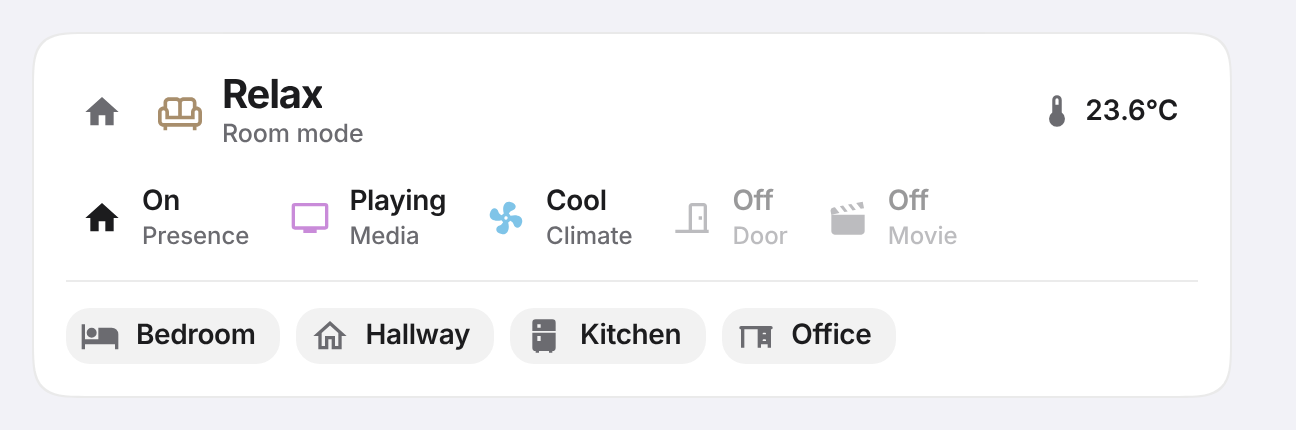
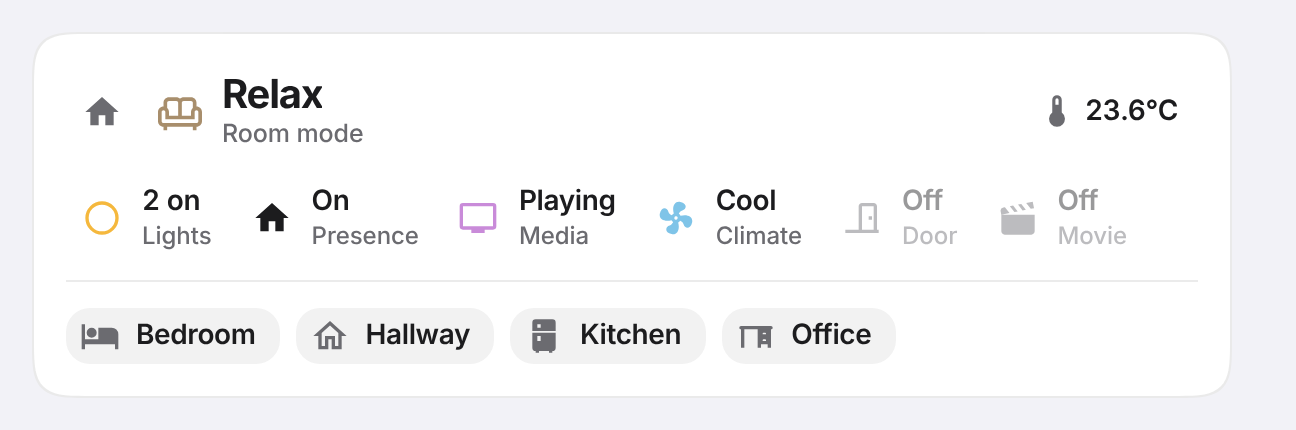
Room header: how many lights are on, first in the row (0.20.2)
A Lights chip leads the room header's row with the number of lights on (Off, dimmed, when none); a tap lists them with all on and all off. lights: false hides it; with auto_discover: false it shows only when asked for.

Changed region(s): [[0.0617, 0.4233, 0.7407, 0.5744], [0.7716, 0.4233, 0.8642, 0.5744]]

diff --git a/dist/savvy-cards.js b/dist/savvy-cards.js
@@ -17926,9 +17926,9 @@ registerCard("savvy-room-activity-card", SavvyRoomActivityCard, "Room activity",
 // ===== cards/room-header.js =====
 (() => {
 // savvy-room-header-card: the header at the top of a room's own page. The room's control (a mode
-// select, say: tap to change it) and temperature; a row of what the room has, pinned entities first, then
-// everything the area has, on or off (dimmed when idle); your own chips; and a row to
-// jump to every other room.
+// select, say: tap to change it) and temperature; a row of what the room has: how many lights are on,
+// then everything the area has, on or off (dimmed when idle), what is active first; your own chips;
+// and a row to jump to every other room.
 //
 //   type: custom:savvy-room-header-card
 //   area: living_room
@@ -18037,9 +18037,27 @@ class SavvyRoomHeaderCard extends SavvyCard {
     this._wake();
   }
 
+  // How many of the room's lights are on, leading the row: a tap lists them, with all on / off.
+  _lightsItem() {
+    const h = this._hass, c = this._config;
+    // its own option; with discovery off (only the pinned badges) it shows only when asked for
+    if (c.lights === false || (c.auto_discover === false && c.lights !== true)) return null;
+    const ids = areaLights(h, c.area).filter((id) => !asItems(c.exclude).some((i) => i.entity === id));
+    if (!ids.length) return null;
+    const on = ids.filter((id) => h.states[id]?.state === "on").length;
+    const value = on ? `${on} on` : "Off";
+    return {
+      key: "lights", icon: on ? "mdi:lightbulb-on" : "mdi:lightbulb-outline", value, caption: "Lights", aria: `Lights, ${value}`,
+      color: on ? LIGHT_COLOR : "var(--secondary-text-color)", dim: !on,
+      config: { tap_action: { action: "list" }, hold_action: { action: "list" } }, defaults: { tap: { action: "list" }, hold: { action: "list" } },
+      list: (from) => this._showList("Lights", ids, LIGHT_COLOR, from, null, { bulk: "auto" }),
+    };
+  }
+
   // Everything the room has, on or off: active ones in their colour, idle ones dimmed.
   _sensors() {
     const h = this._hass, c = this._config;
+    const lights = this._lightsItem();
     const items = roomBadges(h, c.area, c, { idle: true }).map((b) => {
       const look = badgeLook(b), st = h.states[b.entity];
       const caption = b.cfg.name || b.kind?.name || shortName(h, b.entity, c.area);
@@ -18053,7 +18071,7 @@ class SavvyRoomHeaderCard extends SavvyCard {
         list: (from) => this._showList(caption, b.ids, look.color, from, null, { bulk: "auto" }),
       };
     });
-    this._chipRow(this._el.sensors, items, { iconOnly: !!c.icons_only });
+    this._chipRow(this._el.sensors, lights ? [lights, ...items] : items, { iconOnly: !!c.icons_only });
   }
 
   _customChips() {
@@ -18101,7 +18119,8 @@ const EDITOR = defineEditor("savvy-room-header-card", (hass, c) => [
   S.nav("home_path", "Home button", "Empty hides the button."),
   { name: "temperature", label: "Temperature", helper: "Found from the area. Pick another to override.", selector: { entity: { domain: ["sensor", "climate"] } } },
   ...badgeSchema({ pinnedHelp: "Always shown first, in this order: a lights helper, presence, a door. The rest of the room follows." }),
-  S.bool("icons_only", "Icons only", "Just the coloured icons, no names or states.", false),
+  S.grid(S.bool("lights", "Lights count", "How many of the room's lights are on, first in the row; a tap lists them.", true),
+    S.bool("icons_only", "Icons only", "Just the coloured icons, no names or states.", false)),
   S.chips("chips", "Custom chips", "Your own chips, in a row under the room's."),
   { name: "room_path", label: "Room pages", helper: "E.g. /lovelace/{slug} ({area}: the area id, {slug}: with dashes). Empty hides the row.", selector: { text: {} } },
   { name: "room_order", label: "Room order", type: "list", helper: "Rooms listed first, in this order; the rest follow by name.",

diff --git a/src/cards/room-header.js b/src/cards/room-header.js
@@ -1,7 +1,7 @@
 // savvy-room-header-card: the header at the top of a room's own page. The room's control (a mode
-// select, say: tap to change it) and temperature; a row of what the room has, pinned entities first, then
-// everything the area has, on or off (dimmed when idle); your own chips; and a row to
-// jump to every other room.
+// select, say: tap to change it) and temperature; a row of what the room has: how many lights are on,
+// then everything the area has, on or off (dimmed when idle), what is active first; your own chips;
+// and a row to jump to every other room.
 //
 //   type: custom:savvy-room-header-card
 //   area: living_room
@@ -110,9 +110,27 @@ class SavvyRoomHeaderCard extends SavvyCard {
     this._wake();
   }
 
+  // How many of the room's lights are on, leading the row: a tap lists them, with all on / off.
+  _lightsItem() {
+    const h = this._hass, c = this._config;
+    // its own option; with discovery off (only the pinned badges) it shows only when asked for
+    if (c.lights === false || (c.auto_discover === false && c.lights !== true)) return null;
+    const ids = areaLights(h, c.area).filter((id) => !asItems(c.exclude).some((i) => i.entity === id));
+    if (!ids.length) return null;
+    const on = ids.filter((id) => h.states[id]?.state === "on").length;
+    const value = on ? `${on} on` : "Off";
+    return {
+      key: "lights", icon: on ? "mdi:lightbulb-on" : "mdi:lightbulb-outline", value, caption: "Lights", aria: `Lights, ${value}`,
+      color: on ? LIGHT_COLOR : "var(--secondary-text-color)", dim: !on,
+      config: { tap_action: { action: "list" }, hold_action: { action: "list" } }, defaults: { tap: { action: "list" }, hold: { action: "list" } },
+      list: (from) => this._showList("Lights", ids, LIGHT_COLOR, from, null, { bulk: "auto" }),
+    };
+  }
+
   // Everything the room has, on or off: active ones in their colour, idle ones dimmed.
   _sensors() {
     const h = this._hass, c = this._config;
+    const lights = this._lightsItem();
     const items = roomBadges(h, c.area, c, { idle: true }).map((b) => {
       const look = badgeLook(b), st = h.states[b.entity];
       const caption = b.cfg.name || b.kind?.name || shortName(h, b.entity, c.area);
@@ -126,7 +144,7 @@ class SavvyRoomHeaderCard extends SavvyCard {
         list: (from) => this._showList(caption, b.ids, look.color, from, null, { bulk: "auto" }),
       };
     });
-    this._chipRow(this._el.sensors, items, { iconOnly: !!c.icons_only });
+    this._chipRow(this._el.sensors, lights ? [lights, ...items] : items, { iconOnly: !!c.icons_only });
   }
 
   _customChips() {
@@ -174,7 +192,8 @@ const EDITOR = defineEditor("savvy-room-header-card", (hass, c) => [
   S.nav("home_path", "Home button", "Empty hides the button."),
   { name: "temperature", label: "Temperature", helper: "Found from the area. Pick another to override.", selector: { entity: { domain: ["sensor", "climate"] } } },
   ...badgeSchema({ pinnedHelp: "Always shown first, in this order: a lights helper, presence, a door. The rest of the room follows." }),
-  S.bool("icons_only", "Icons only", "Just the coloured icons, no names or states.", false),
+  S.grid(S.bool("lights", "Lights count", "How many of the room's lights are on, first in the row; a tap lists them.", true),
+    S.bool("icons_only", "Icons only", "Just the coloured icons, no names or states.", false)),
   S.chips("chips", "Custom chips", "Your own chips, in a row under the room's."),
   { name: "room_path", label: "Room pages", helper: "E.g. /lovelace/{slug} ({area}: the area id, {slug}: with dashes). Empty hides the row.", selector: { text: {} } },
   { name: "room_order", label: "Room order", type: "list", helper: "Rooms listed first, in this order; the rest follow by name.",

diff --git a/README.md b/README.md
@@ -303,7 +303,8 @@ dimmed), your own chips, and a row to jump to the other rooms.
 | `control`, `mode_label`, `mode_icons`, `mode_colors`, `control_tap_action`, `control_hold_action`, `control_double_tap_action` | | none, `Room mode` | The room's mode or scenes, or any entity. Same as on the [home header](#home-header). |
 | `temperature` | entity or `false` | found | The area's temperature sensor, else its climate unit's reading. |
 | `home_path` | string | from settings | Home button page. Empty hides it. |
-| `entities`, `auto_discover`, `exclude_kinds`, `include`, `exclude` | | discovered | The badge row, see [Badges](#badges). Here every kind the room has shows, active or not. |
+| `lights` | boolean | `true` | How many of the room's lights are on, first in the row; a tap lists them. With `auto_discover: false` it shows only when set to `true`. |
+| `entities`, `auto_discover`, `exclude_kinds`, `include`, `exclude` | | discovered | The badge row, see [Badges](#badges). Here every kind the room has shows, active or not; idle ones dimmed. |
 | `aggregate` | `true` or list | off | See [Aggregate sensors](#aggregate-sensors). |
 | `icons_only` | boolean | `false` | Just the coloured icons. |
 | `chips` | chips | none | Your own chips, in a row of their own. |

diff --git a/CHANGELOG.md b/CHANGELOG.md
@@ -7,6 +7,9 @@
   tap), then everything active (a tripped leak or smoke alarm, presence, an open door, the rest), then
   everything idle (presence, door, the rest). With nobody in the room and the door shut, the TV that is
   playing comes first. The section title no longer keeps presence and the door at the end.
+- **Room header: how many lights are on.** A Lights chip leads its row ("3 on", or Off, dimmed); a tap lists the
+  room's lights with all on and all off. `lights: false` hides it. Everything else the room has stays in the row,
+  idle ones dimmed, never hidden.
 
 ## 0.20.1
 
